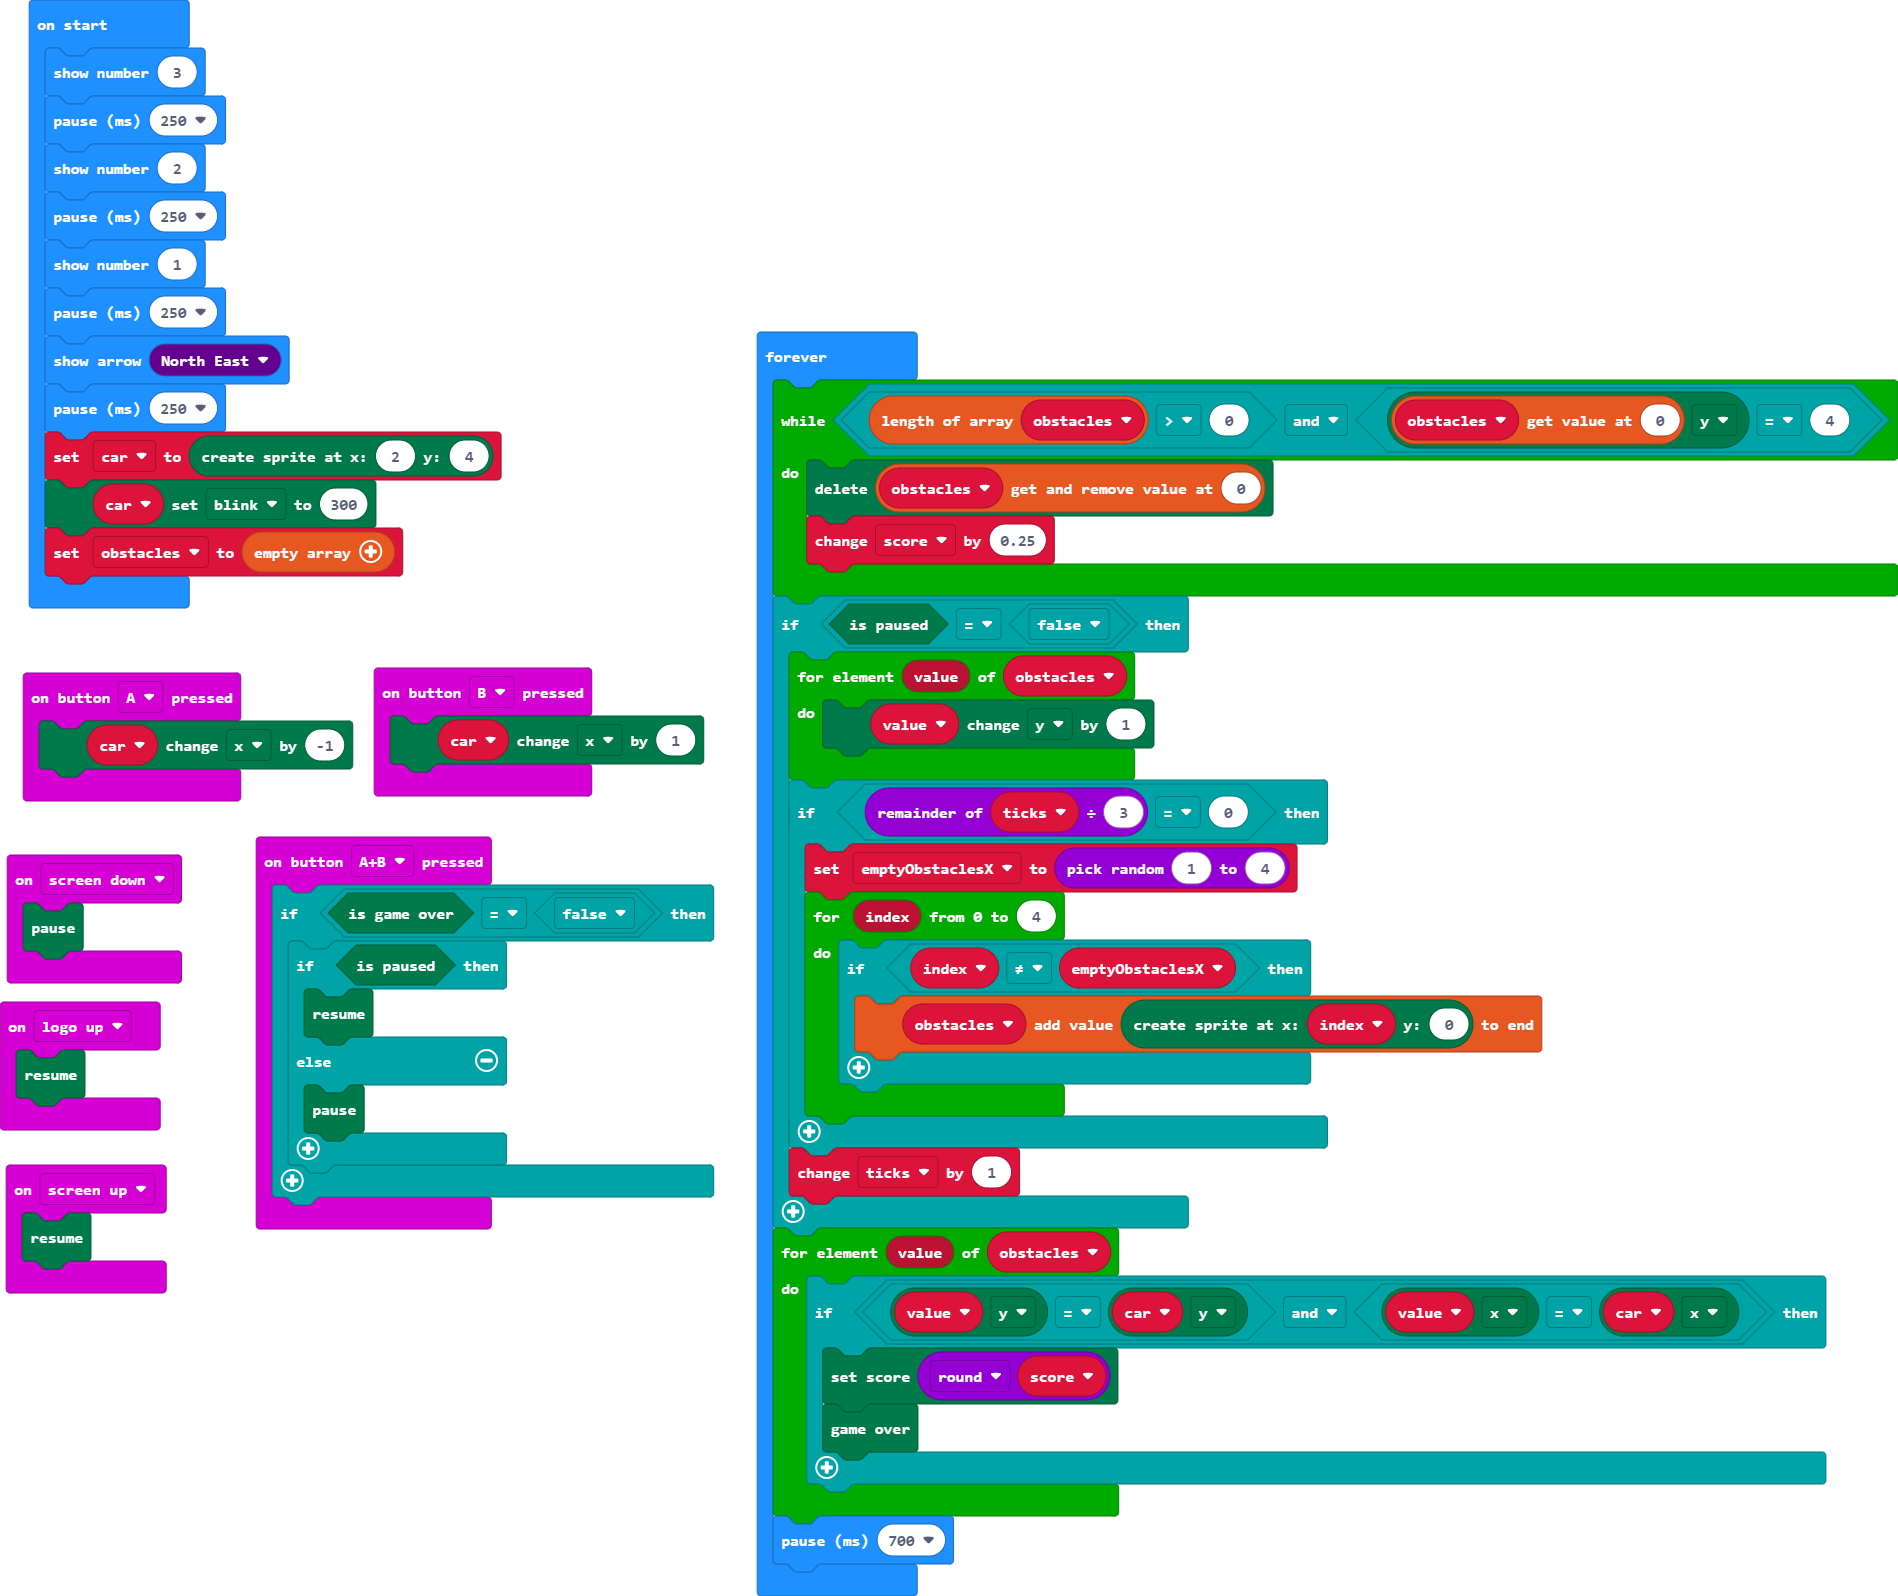
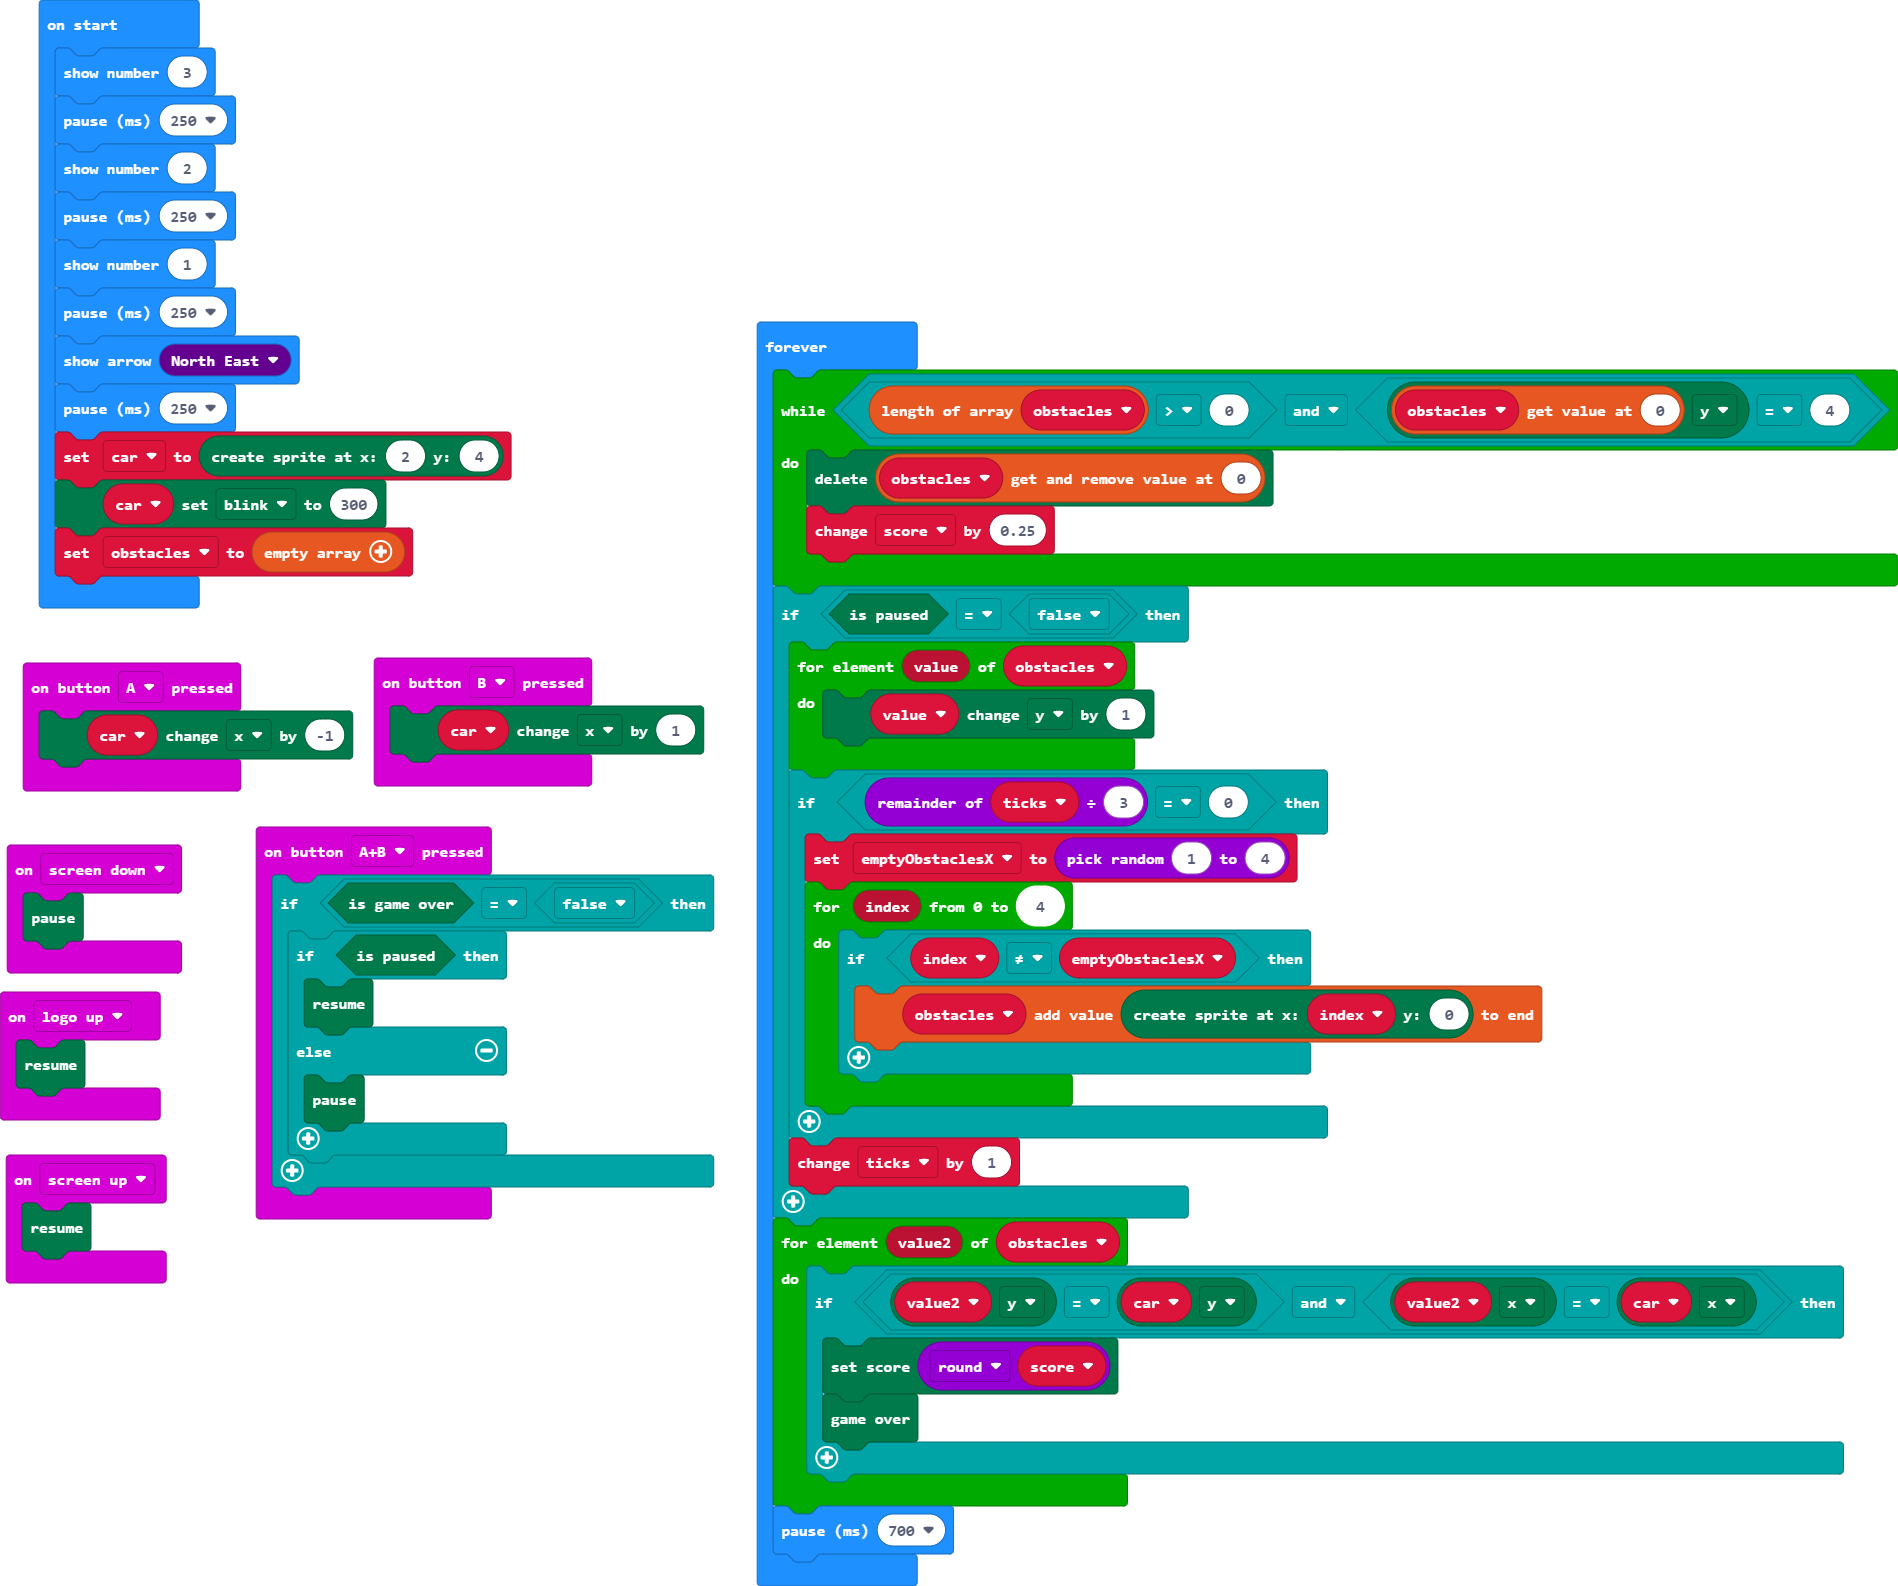
added an intro

diff --git a/main.ts b/main.ts
@@ -56,8 +56,8 @@ basic.forever(function () {
         }
         ticks += 1
     }
-    for (let value of obstacles) {
-        if (value.get(LedSpriteProperty.Y) == car.get(LedSpriteProperty.Y) && value.get(LedSpriteProperty.X) == car.get(LedSpriteProperty.X)) {
+    for (let value2 of obstacles) {
+        if (value2.get(LedSpriteProperty.Y) == car.get(LedSpriteProperty.Y) && value2.get(LedSpriteProperty.X) == car.get(LedSpriteProperty.X)) {
             game.setScore(Math.round(score))
             game.gameOver()
         }

diff --git a/main.py b/main.py
@@ -1,0 +1,64 @@
+def on_button_pressed_a():
+    car.change(LedSpriteProperty.X, -1)
+input.on_button_pressed(Button.A, on_button_pressed_a)
+
+def on_gesture_logo_up():
+    game.resume()
+input.on_gesture(Gesture.LOGO_UP, on_gesture_logo_up)
+
+def on_gesture_screen_up():
+    game.resume()
+input.on_gesture(Gesture.SCREEN_UP, on_gesture_screen_up)
+
+def on_gesture_screen_down():
+    game.pause()
+input.on_gesture(Gesture.SCREEN_DOWN, on_gesture_screen_down)
+
+def on_button_pressed_ab():
+    if game.is_game_over() == False:
+        if game.is_paused():
+            game.resume()
+        else:
+            game.pause()
+input.on_button_pressed(Button.AB, on_button_pressed_ab)
+
+def on_button_pressed_b():
+    car.change(LedSpriteProperty.X, 1)
+input.on_button_pressed(Button.B, on_button_pressed_b)
+
+emptyObstaclesX = 0
+ticks = 0
+score = 0
+car: game.LedSprite = None
+basic.show_number(3)
+basic.pause(250)
+basic.show_number(2)
+basic.pause(250)
+basic.show_number(1)
+basic.pause(250)
+basic.show_arrow(ArrowNames.NORTH_EAST)
+basic.pause(250)
+car = game.create_sprite(2, 4)
+car.set(LedSpriteProperty.BLINK, 300)
+obstacles: List[game.LedSprite] = []
+
+def on_forever():
+    global score, emptyObstaclesX, ticks
+    while len(obstacles) > 0 and obstacles[0].get(LedSpriteProperty.Y) == 4:
+        obstacles.remove_at(0).delete()
+        score += 0.25
+    if game.is_paused() == False:
+        for value in obstacles:
+            value.change(LedSpriteProperty.Y, 1)
+        if ticks % 3 == 0:
+            emptyObstaclesX = randint(1, 4)
+            for index in range(5):
+                if index != emptyObstaclesX:
+                    obstacles.append(game.create_sprite(index, 0))
+        ticks += 1
+    for value2 in obstacles:
+        if value2.get(LedSpriteProperty.Y) == car.get(LedSpriteProperty.Y) and value2.get(LedSpriteProperty.X) == car.get(LedSpriteProperty.X):
+            game.set_score(Math.round(score))
+            game.game_over()
+    basic.pause(700)
+basic.forever(on_forever)
